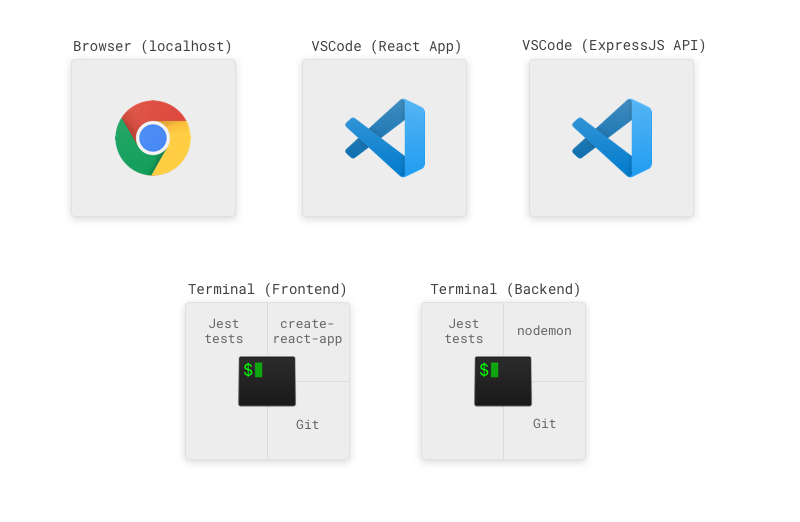
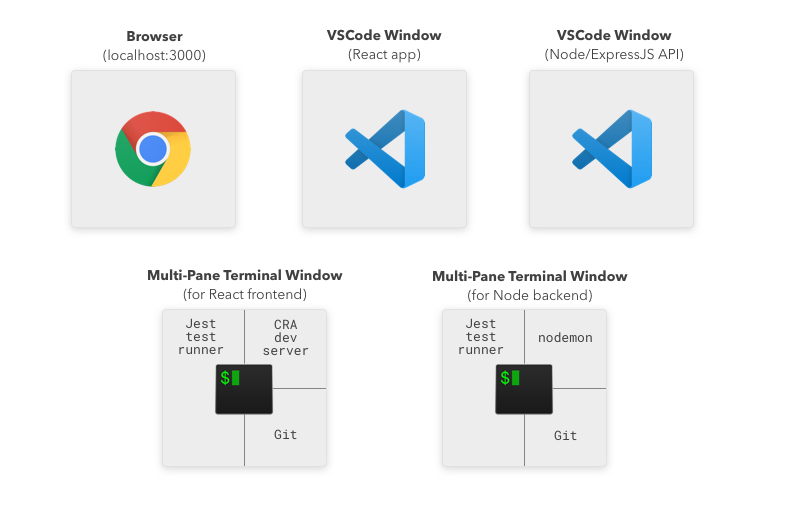
finish itermocil post

diff --git a/src/pages/itermocil/index.md b/src/pages/itermocil/index.md
@@ -1,44 +1,106 @@
 ---
 templateKey: blog-post
-title: 'The perfect solution for quick-launching custom terminal window pane arrangements'
-date: 2020-03-13T06:00:00.000Z
+title: 'Launching Custom Multi-Pane Terminal Window Arrangements'
+date: 2020-04-15T06:00:00.000Z
 description: ''
 published: true
 tags:
   - Coding
 ---
 
-I have been wanting to be able to do a single-command quick-launch of text editors and multi-paned terminal windows for a *long time*.
+I have been trying to find a way to be able to do a single-command quick-launch of multiple text editors and multi-paned terminal windows for a _long time_.
 
-Here’s what I mean... I want to be able to launch ALL of this by typing a single command:
+Here’s an example from one of my side projects. I want to be able to launch all of these at once by typing a single command:
 
 ![project setup](./itermocil-setup.jpg)
 
-This is the actual dev environment for one of my side projects. I don’t want to spend mental energy on getting this up and running each time. I just want to enter a single command into my terminal and have all these to spin up (including all the terminal items in a saved multi-pane arrangement).
+I don’t want to spend mental energy on getting this up and running each time. I just want to enter a single command into my terminal and have all these to spin up (including all the terminal items in a saved multi-pane arrangement).
 
 After a ton of searching and testing, I’ve finally got it.
 
 ## The Magic Combination
 
 1. **iTerm2** - Terminal application for Mac.
-2. **itermocil** - For creating and launching pre-defined window/pane layouts in iTerm.
+2. **itermocil** - For creating and launching pre-defined window/pane layouts and start commands in iTerm.
 3. **bash/zsh alias** - For pretty-ing the initial command and launching the two itermocil projects/layouts in two different tabs.
 
-*As you can tell, this is for a Mac. I'm sure there's a Windows equivalent, but I haven't looked for it.*
+_As you can tell, this is for a Mac. I'm sure there's a Windows equivalent, but I haven't looked for it._
 
 ## Example Config
+
 I'll go through the entire setup config from the side project I mentioned earlier. You should be able to use this as a starting point to dial in your exact process and window arrangement preferences.
 
-In ~./itermocil, I have two files, one for the backend, one for the frontend:
+### 1. Getting started
 
+The first step is to install both [**iTerm2**](https://www.iterm2.com/) and [**itermocil**](https://github.com/TomAnthony/itermocil). Click those links and follow the directions for both those tools.
 
+### 2. itermocil config files
+
+In the `~./itermocil` directory, I created two files, one for the backend, one for the frontend.
+
+For my project, the frontend and backend use the same window arrangement and start commands that are sent to each pane, but it doesn't have to match, you can alter each itermocil config as needed.
+
+_The project I set this up on is for Photo Invoice, so you'll see that scattered throughout. Replace that with your project name._
+
+`photo-invoice-app.yml`:
+
+```
+windows:
+  - name: photo-invoice-app
+    root: ~/Dev/PhotoInvoice/app
+    layout: main-vertical
+    panes:
+      - yarn run test
+      - code .
+      - yarn start
+```
+
+`photo-invoice-api`:
+
+```
+windows:
+  - name: photo-invoice-api
+    root: ~/Dev/PhotoInvoice/api
+    layout: main-vertical
+    panes:
+      - yarn run test
+      - code .
+      - yarn start
+```
+
+_See the [itermocil docs](https://github.com/TomAnthony/itermocil) for more layout examples._
+
+Each of these profiles opens three panes:
+
+- `yarn run test` - in my project, this starts the Jest test runner, which will stay open and watch for changed files.
+- `code .` - opens a VSCode window for the project
+- `yarn start` - for the API Node/ExpressJS project, this runs nodemon. For the frontend project this starts the create-react-app dev server, which also opens a browser tab to localhost:3000
+
+So by running these two itermocil profiles in separate iterm tabs, all the windows/panes from the graphic above are taken care of.
+
+All that's left is setting up an alias to launch both of these profiles with a single terminal command.
+
+### 3. Bash/zsh alias
+
+I use zsh (with oh-my-zsh), so I've set up one extra zsh alias as follows:
+
+```
+alias pidev="itermocil photo-invoice-api; itermocil photo-invoice-app"
+```
+
+With this in place, by typing the command `pidev` and hitting enter, both itermocil profiles launch (in new iTerm tabs), each with 3 pre-arranged panes. The commands ran in the various iTerm panes open VSCode windows for that project and start the dev server, which also opens a browser window to localhost:3000:
+
+![itermocil launch result](./itermocil-result.jpg)
+
+WE DID IT! 🎉🎉🎉
+
+Finding itermocil and putting these pieces together was a big win- I'd been wanting a setup like this for a long time. It's well worth the initial setup effort in order to save the time and mental energy of being able to launch the dev environment for a project with a single command.
 
 ## Resources
-[How to Create Custom iTerm2 Window Arrangments](https://blog.andrewray.me/how-to-create-custom-iterm2-window-arrangments/)
 
+- [How to Create Custom iTerm2 Window Arrangments](https://blog.andrewray.me/how-to-create-custom-iterm2-window-arrangments/) - This is an excellent blog post about leveraging iTerm's "Restore Window Arrangement" feature to do something similar. The comments below the article are where I first discovered itermocil:
 
-
-
+- [itermocil](https://github.com/TomAnthony/itermocil) - The official itermocil docs.
 
 ## Corrections? Comments?
 
